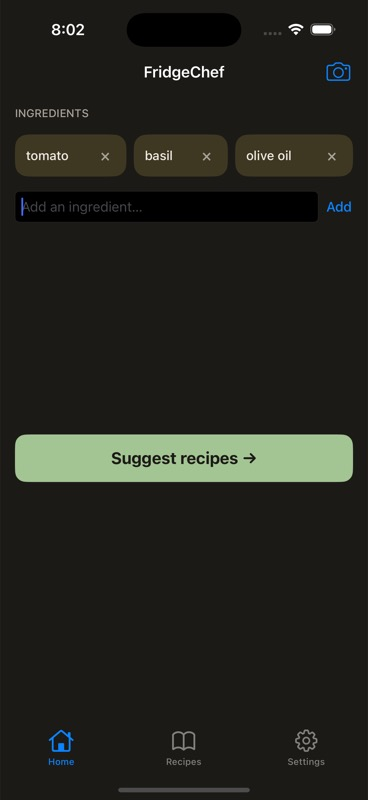
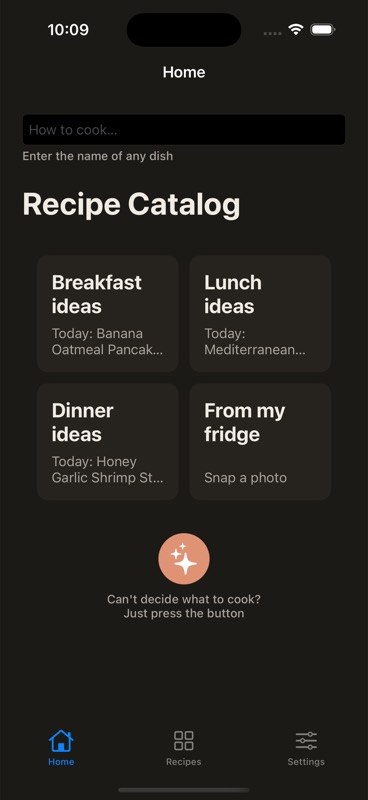
docs: refresh README + screenshots for catalog redesign
Hero strip and Walkthrough now reflect the Recipe Catalog Home
(text field + 2x2 idea grid + magic button) instead of v1 chips.
Architecture diagram and data flow updated for CatalogVC/CatalogVM
and DailyPicksService. Test count 46 -> 52.

Adds an explicit note that the picture-attachment feature lives on
as the "From my fridge" card (same suggestRecipes(imageJPEG:) path),
to answer the v1.1 review question.

diff --git a/README.md b/README.md
@@ -1,25 +1,29 @@
 # FridgeChef
 
-> Photograph what's in your fridge, get 3 recipes you can actually cook.
+> Type a dish, pick a meal idea, or snap your fridge — get 3 recipes you can actually cook.
 
-iOS app that turns a list of ingredients — typed as chips or extracted from a photo — into 3 recipe suggestions via GPT-4o Vision. Every batch is saved to a local recipe history. UIKit + MVVM + Core Data, iOS 17+, zero third-party Swift dependencies.
+iOS app with a recipe catalog Home tab: a text field for any dish name, four idea cards (Breakfast / Lunch / Dinner / **From my fridge**), and a magic surprise-me button. Each path returns 3 GPT-4o recipes that persist to a local Core Data history. The fridge-photo path uses GPT-4o Vision to read what's in the picture. UIKit + MVVM + Core Data, iOS 17+, zero third-party Swift dependencies.
 
 <p align="center">
-  <img src="docs/screenshots/02-home-with-chips.jpg" alt="FridgeChef Home with chips (light)" width="260" />
+  <img src="docs/screenshots/01-home-light.jpg" alt="FridgeChef Recipe Catalog (light)" width="260" />
   &nbsp;
-  <img src="docs/screenshots/04-recipe-batch.jpg" alt="3 recipes returned by GPT-4o Vision" width="260" />
+  <img src="docs/screenshots/04-recipe-batch.jpg" alt="3 recipes returned by GPT-4o" width="260" />
   &nbsp;
-  <img src="docs/screenshots/10-home-dark.jpg" alt="FridgeChef Home (dark)" width="260" />
+  <img src="docs/screenshots/10-home-dark.jpg" alt="FridgeChef Recipe Catalog (dark)" width="260" />
 </p>
 
-<p align="center"><sub>Add chips → snap a fridge photo → 3 real recipes in ~10 seconds.</sub></p>
+<p align="center"><sub>Pick a meal idea, type a dish, or snap your fridge — 3 real recipes in ~10 seconds.</sub></p>
 
 ---
 
 ## Features
 
-- **Chip-based ingredient input** — add ingredients one at a time, lowercased and deduped automatically
-- **Photo → ingredients → recipes** — take a photo or pick from the library, GPT-4o Vision reads it and suggests recipes in one round-trip
+- **Recipe Catalog Home** — five entry points on a single screen:
+  - text field → type any dish name, get 3 variations
+  - **Breakfast / Lunch / Dinner** idea cards → 3 recipes for that meal
+  - **From my fridge** card → snap or pick a photo, GPT-4o Vision reads it and suggests recipes
+  - **Magic** button → a totally random surprise dish
+- **Today's pick on every meal card** — a separate `gpt-4o-mini` daily call seeds each card with a fresh dish title once per calendar day (cached in `UserDefaults`, no spinner on subsequent launches)
 - **Structured outputs** — uses OpenAI's `response_format: json_schema` so the model returns valid JSON every time, no string parsing
 - **Recipe history** — every generated batch persists to Core Data, browsable in a Recipes tab grouped by relative date (Today / Yesterday / This Week / by month)
 - **Recipe detail** — full recipe view with ingredients and numbered steps
@@ -28,23 +32,27 @@ iOS app that turns a list of ingredients — typed as chips or extracted from a 
 
 ## Walkthrough
 
-Real end-to-end run captured from the iOS Simulator. The input photo (below) is a produce fridge from Unsplash, injected into the simulator's Photos library via `xcrun simctl addmedia`. GPT-4o Vision then identified the visible vegetables and returned three runnable recipes — Colorful Garden Salad, Zucchini & Broccoli Stir-Fry, Butternut Squash Soup.
+Real end-to-end run captured from the iOS Simulator. The fridge-photo path uses an Unsplash produce shot injected into the simulator's Photos library via `xcrun simctl addmedia`; GPT-4o Vision identifies the visible vegetables and returns three runnable recipes (in the captured run: Colorful Garden Salad, Zucchini & Broccoli Stir-Fry, Butternut Squash Soup).
 
-### Input photo (the one selected from the picker)
+### Input photo (used by the "From my fridge" card)
 
 <p align="center">
   <img src="docs/screenshots/00-input-photo.jpg" alt="Produce fridge photo sent to GPT-4o Vision" width="520" />
 </p>
 <p align="center"><sub>Photo by <a href="https://unsplash.com/photos/photo-1542838132-92c53300491e">Unsplash</a> · free to use, no attribution required (credit shown anyway).</sub></p>
 
-### End-to-end flow
+### Recipe Catalog Home
 
-| Step | Light | What's happening |
+| Light | Dark | What's on screen |
 |---|---|---|
-| Empty Home | <img src="docs/screenshots/01-home-empty.jpg" width="200" /> | First launch — empty chip area, Suggest button disabled |
-| Chips added | <img src="docs/screenshots/02-home-with-chips.jpg" width="200" /> | Three ingredients added; Suggest button now sage-active |
-| Loading | <img src="docs/screenshots/03-home-loading.jpg" width="200" /> | Full-screen overlay with Fraunces spinner — "Reading your kitchen…" |
-| Recipe batch | <img src="docs/screenshots/04-recipe-batch.jpg" width="200" /> | GPT-4o returned 3 cards (Garden Salad / Stir-Fry / Squash Soup) |
+| <img src="docs/screenshots/01-home-light.jpg" width="220" /> | <img src="docs/screenshots/10-home-dark.jpg" width="220" /> | Text field ("How to cook…") + 2×2 grid: Breakfast / Lunch / Dinner / From my fridge. Each meal card shows "Today: …" — a fresh daily pick from `gpt-4o-mini`. The fridge card prompts "Snap a photo". Below: a circular magic surprise-me button. |
+
+### After picking a path
+
+| Step | Screenshot | What's happening |
+|---|---|---|
+| Loading | <img src="docs/screenshots/03-home-loading.jpg" width="200" /> | Inlined overlay with a spinner while GPT-4o responds |
+| Recipe batch | <img src="docs/screenshots/04-recipe-batch.jpg" width="200" /> | GPT-4o returned 3 cards |
 | Recipe detail | <img src="docs/screenshots/05-recipe-detail.jpg" width="200" /> | Tap a card → full ingredients + numbered steps |
 | Recipes history | <img src="docs/screenshots/06-recipes-history.jpg" width="200" /> | Recipes tab — batch grouped under TODAY |
 | Settings | <img src="docs/screenshots/07-settings.jpg" width="200" /> | Theme picker, key status (✓ injected), model, version |
@@ -57,64 +65,74 @@ System tokens swap automatically via `UIColor` dynamic providers — no per-scre
 |---|---|---|
 | <img src="docs/screenshots/08-settings-dark.jpg" width="220" /> | <img src="docs/screenshots/09-recipe-batch-dark.jpg" width="220" /> | <img src="docs/screenshots/10-home-dark.jpg" width="220" /> |
 
+> **"Where did the picture-attachment feature go?"** Still here — it's now the **From my fridge** card (bottom-right of the 2×2 grid). Tapping it opens the photo picker exactly like before; the image is sent to GPT-4o Vision via the same `suggestRecipes(imageJPEG:)` path. Nothing about the vision flow was removed in the catalog redesign.
+
 ## Architecture
 
 ```mermaid
 graph TB
     subgraph "FridgeChef (UIKit, MVVM + Combine, iOS 17+)"
-        HomeVC[HomeVC] <--> HomeVM[HomeVM]
+        CatalogVC[CatalogVC] <--> CatalogVM[CatalogVM]
         RecipeBatchVC[RecipeBatchVC] <--> RecipeBatchVM[RecipeBatchVM]
         RecipeDetailVC[RecipeDetailVC] <--> RecipeDetailVM[RecipeDetailVM]
         RecipesVC[RecipesVC] <--> RecipesVM[RecipesVM]
         SettingsVC[SettingsVC] <--> SettingsVM[SettingsVM]
 
-        HomeVM --> OpenAIClient
-        HomeVM --> RecipeStore
+        CatalogVM --> OpenAIClient
+        CatalogVM --> RecipeStore
+        CatalogVM --> DailyPicksService
+        DailyPicksService --> OpenAIClient
         RecipeBatchVM --> RecipeStore
         RecipesVM --> RecipeStore
         SettingsVM --> ThemeManager
         SettingsVM --> RecipeStore
         SettingsVM --> APIKeyProvider
 
-        HomeVC -. push .-> RecipeBatchVC
+        CatalogVC -. push .-> RecipeBatchVC
         RecipesVC -. push .-> RecipeBatchVC
         RecipeBatchVC -. push .-> RecipeDetailVC
 
-        OpenAIClient[OpenAIClient<br/>protocol]
+        OpenAIClient[OpenAIClient<br/>protocol<br/>dish / meal / image / surprise / dailyPicks]
         RecipeStore[RecipeStore<br/>protocol]
+        DailyPicksService[DailyPicksService<br/>UserDefaults cache,<br/>per-calendar-day]
         ThemeManager[ThemeManager<br/>UserDefaults]
         APIKeyProvider[APIKeyProvider<br/>Info.plist]
     end
 
-    OpenAIClient --> OpenAI[api.openai.com<br/>gpt-4o + json_schema]
+    OpenAIClient --> OpenAI[api.openai.com<br/>gpt-4o + gpt-4o-mini<br/>+ json_schema]
     RecipeStore --> CoreData[(Core Data<br/>RecipeBatchEntity<br/>→ RecipeEntity)]
     APIKeyProvider --> BuildScript[Run Script Phase<br/>inject-openai-key.sh<br/>reads ../youtube_pdf_reporter/.env]
 ```
 
-### Data flow — generate from chips
+### Data flow — tap a meal idea card
 
 ```mermaid
 sequenceDiagram
     actor User
-    participant HomeVC
-    participant HomeVM
+    participant CatalogVC
+    participant CatalogVM
     participant OpenAIClient
     participant RecipeStore
     participant RecipeBatchVC
 
-    User->>HomeVC: tap chip+, type "tomato", tap Add
-    HomeVC->>HomeVM: addChip("tomato")
-    User->>HomeVC: tap "Suggest recipes"
-    HomeVC->>HomeVM: generate()
-    HomeVM->>HomeVM: state = .loading
-    HomeVM->>OpenAIClient: suggestRecipes(ingredients:)
+    User->>CatalogVC: tap "Breakfast ideas" card
+    CatalogVC->>CatalogVM: generateForMeal(.breakfast)
+    CatalogVM->>CatalogVM: state = .loading
+    CatalogVM->>OpenAIClient: suggestRecipes(forMeal: .breakfast, style: nil)
     OpenAIClient->>OpenAIClient: POST /v1/chat/completions<br/>json_schema response_format
-    OpenAIClient-->>HomeVM: [Recipe] x3
-    HomeVM->>RecipeStore: save(batch)
-    HomeVM->>HomeVM: state = .loaded(batch)
-    HomeVC->>RecipeBatchVC: push (via Combine sink)
+    OpenAIClient-->>CatalogVM: [Recipe] x3
+    CatalogVM->>RecipeStore: save(batch)
+    CatalogVM->>CatalogVM: state = .loaded(batch)
+    CatalogVC->>RecipeBatchVC: push (via Combine sink)
     RecipeBatchVC->>User: 3 cards
 ```
+
+The other entry points work the same way, just calling different `OpenAIClient` methods:
+- text field → `suggestRecipes(dishName:)`
+- **From my fridge** → `suggestRecipes(imageJPEG:)` (GPT-4o Vision, same call as v1)
+- magic button → `suggestRecipes(forMeal:style:)` with a random `MealType` + `RecipeStyle`
+
+`DailyPicksService` runs once on app launch and caches three dish titles per calendar day via `gpt-4o-mini`; the meal cards render those as "Today: …" subtitles.
 
 ### Key principles
 
@@ -156,15 +174,16 @@ recipe-ingredients-ios/
 └── FridgeChef/
     ├── App/                                 ← AppDelegate, SceneDelegate, RootTabBar, Dependencies
     ├── Features/                            ← one folder per screen, each with View/ + ViewModel/
-    │   ├── Home/
+    │   ├── Catalog/                         ← Home tab (replaces v1 Home/)
     │   ├── RecipeBatch/
     │   ├── RecipeDetail/
     │   ├── Recipes/
     │   └── Settings/
-    ├── SharedModels/                        ← Recipe, RecipeBatch (used across features)
+    ├── SharedModels/                        ← Recipe, RecipeBatch, MealType, RecipeStyle, DailyPicks, Notifications
     ├── Services/
     │   ├── Networking/                      ← OpenAIClient, OpenAIError, APIKeyProvider, Prompts
     │   ├── Persistence/                     ← CoreDataStack, RecipeStore, .xcdatamodeld, entity extensions
+    │   ├── DailyPicks/                      ← DailyPicksService (UserDefaults cache, calendar-day staleness)
     │   └── Theme/                           ← ThemeManager
     ├── DesignSystem/                        ← Colors, Typography, Spacing, Fonts/
     └── Resources/
@@ -242,16 +261,17 @@ xcodebuild -project FridgeChef.xcodeproj -scheme FridgeChef \
 
 | Layer | Tool | Tests |
 |---|---|---|
-| ViewModels | XCTest | 9 (HomeVM) + 2 (RecipeBatchVM) + 1 (RecipeDetailVM) + 3 (RecipesVM) + 4 (SettingsVM) |
-| OpenAIClient | XCTest with `URLProtocol` stub | 10 (request shape, response decode, 4xx/5xx mapping, image variant) |
-| RecipeStore | XCTest with in-memory `NSPersistentContainer` | 5 (save/load/byId/deleteAll/ordering) |
-| APIKeyProvider | XCTest with custom `Bundle` | 3 (present/missing/empty) |
-| ThemeManager | XCTest with custom `UserDefaults` | 4 (default/light/dark/style mapping) |
-| UI smoke | XCUITest with launch-arg stub injection | 3 (one per tab — UI elements present) |
+| ViewModels | XCTest | CatalogVM + RecipeBatchVM + RecipeDetailVM + RecipesVM + SettingsVM |
+| OpenAIClient | XCTest with `URLProtocol` stub | request shape + response decode + 4xx/5xx mapping for ingredients / image / dishName / forMeal / dailyPicks variants |
+| DailyPicksService | XCTest | calendar-day cache hit/miss, silent error path, publisher emits on refresh |
+| RecipeStore | XCTest with in-memory `NSPersistentContainer` | save / load / byId / deleteAll / ordering |
+| APIKeyProvider | XCTest with custom `Bundle` | present / missing / empty |
+| ThemeManager | XCTest with custom `UserDefaults` | default / light / dark / style mapping |
+| UI smoke | XCUITest with launch-arg stub injection | 3 (one per tab — catalog cards present, recipes empty state, theme toggle) |
 
-**Total:** 43 unit tests + 3 UI smoke = **46 tests.**
+**Total:** 49 unit tests + 3 UI smoke = **52 tests.**
 
-The end-to-end Home generate→push flow is exercised by `HomeVMTests` + `RecipeBatchVMTests` rather than XCUITest, because keyboard timing and navigation animations make the XCUITest version flaky in simulator.
+The end-to-end catalog → generate → push flow is exercised by `CatalogVMTests` + `RecipeBatchVMTests` rather than XCUITest, because keyboard timing and navigation animations make the XCUITest version flaky in simulator.
 
 ### Pre-commit secret-scan hook
 
@@ -272,8 +292,15 @@ A `.git/hooks/pre-commit` script blocks any commit whose staged diff contains an
 
 ## Design + plan docs
 
-- 📐 **[Design spec](docs/superpowers/specs/2026-05-18-fridgechef-ios-v1-design.md)** — the full architectural decisions, screen mocks, error handling, testing strategy
-- 🛠 **[Implementation plan](docs/superpowers/plans/2026-05-18-fridgechef-ios-v1.md)** — 11 phases, 56 tasks, every task with code blocks and exact commands
+**v1 (chip-based Home → 3 recipes)**
+
+- 📐 **[v1 Design spec](docs/superpowers/specs/2026-05-18-fridgechef-ios-v1-design.md)** — the full architectural decisions, screen mocks, error handling, testing strategy
+- 🛠 **[v1 Implementation plan](docs/superpowers/plans/2026-05-18-fridgechef-ios-v1.md)** — 11 phases, 56 tasks, every task with code blocks and exact commands
+
+**v1.1 (Recipe Catalog Home redesign)**
+
+- 📐 **[Catalog redesign spec](docs/superpowers/specs/2026-05-18-fridgechef-catalog-redesign-design.md)** — five entry points, DailyPicksService, new OpenAIClient methods
+- 🛠 **[Catalog redesign plan](docs/superpowers/plans/2026-05-18-fridgechef-catalog-redesign.md)** — 10 TDD phases, ~40 tasks, replaces the v1 Home tab
 
 ## License
 
